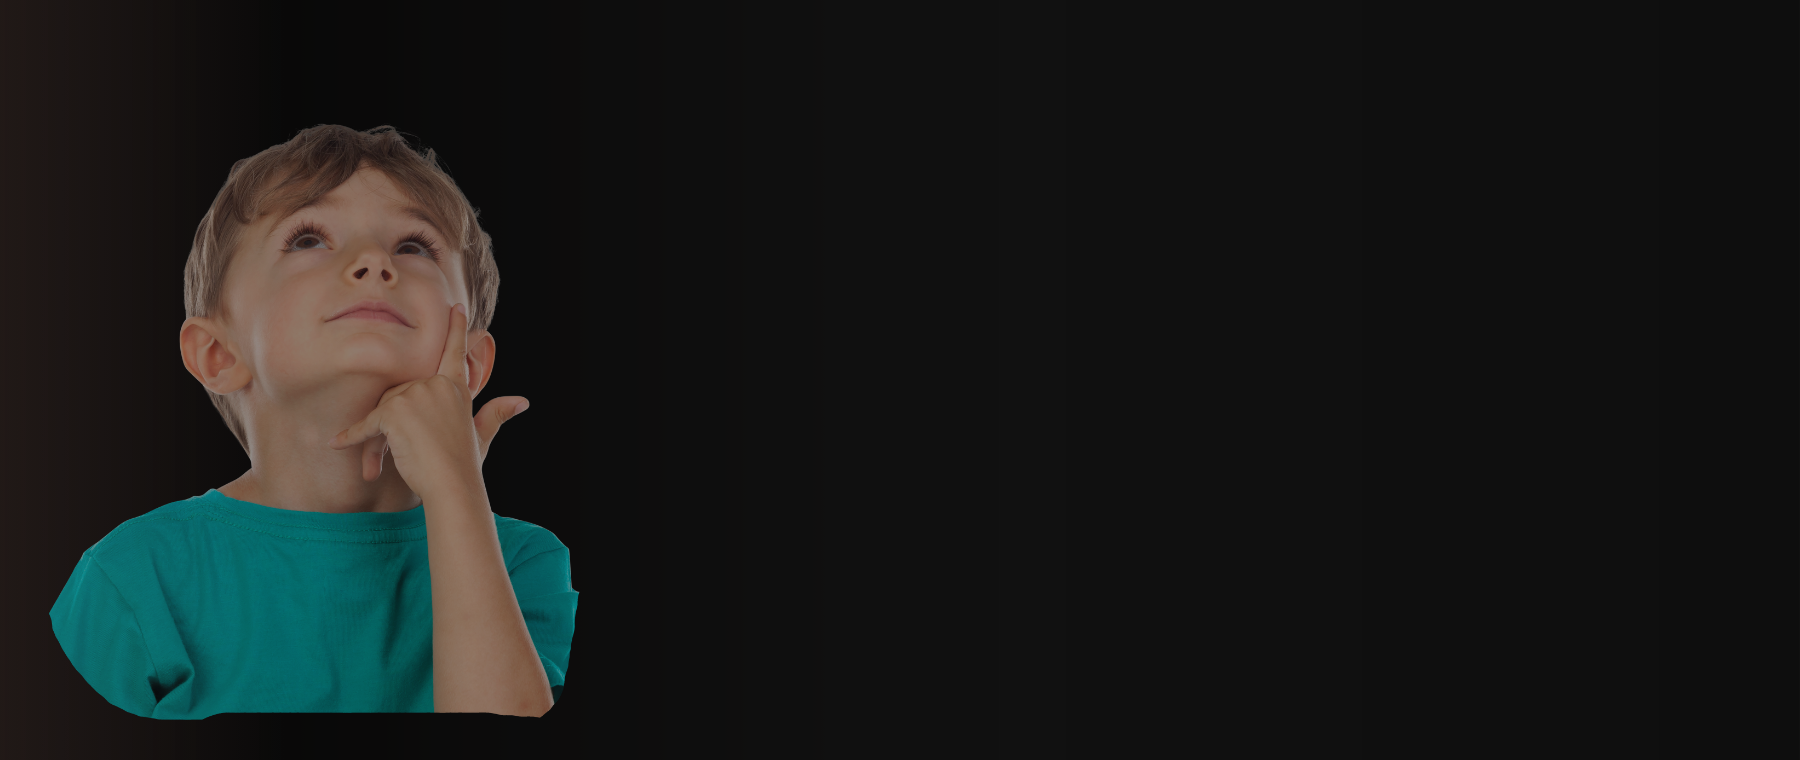
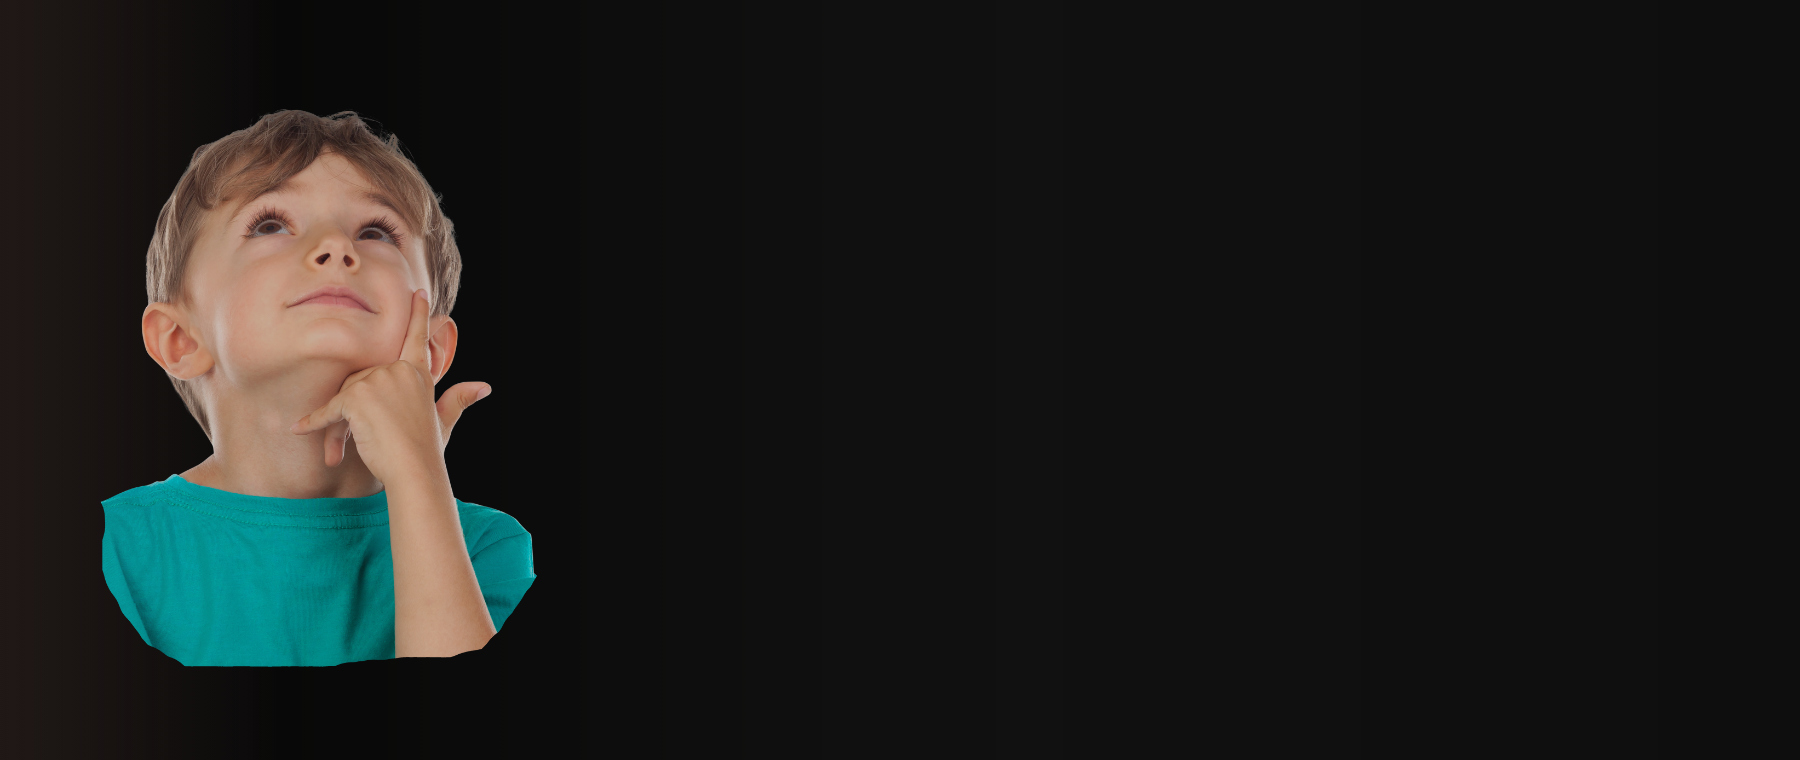
Melhorias

Changed region(s): [[0.0311, 0.1211, 0.3422, 0.9684]]

diff --git a/Web/main.js b/Web/main.js
@@ -2036,6 +2036,7 @@ MainContainers:{
     height:{'Mobile':'210%','Pc':'260%'},
     width:'100%',
     zIndex:'10',
+    display:{'Mobile':'none','Pc':'flex'},
      backgroundImage:["url('./Images/GradientMinimalistLight.png')","url('./Images/GradientMinimalistDark.png')"],
         backgroundRepeat:'no-repeat',
         backgroundPosition:'center',
@@ -2069,6 +2070,7 @@ MainContainers:{
      Id:'WhoIAmDecoration',
      Type:'div',
      Style:{
+      display:'block',
       position:'absolute',
       left:{'Mobile':'23%','Pc':'37%'},
       top:{'Mobile':'20%','Pc':'1%'},
@@ -2086,7 +2088,7 @@ MainContainers:{
       Id:'SelfImage',
       Type:'div',
       Style:{
-         position:'absolute',
+        position:'relative',
         width:{'Mobile':'40%',Pc:'50%'},
         height:{'Mobile':'40%',Pc:'20%'},
         top:{'Mobile':'16%',Pc:'10%'},
@@ -2094,11 +2096,142 @@ MainContainers:{
          backgroundImage:"url('./Images/SelfImage.png')",
         backgroundRepeat:'no-repeat',
         backgroundPosition:'center',
+        display:'block',
+        marginBottom:'5%',
         backgroundSize:'cover',
         boxShadow:'rgba(0,0,0,0.6) 5px 5px 5px',
         border:'solid 1px black',
+        
       },
+      Childs:{
+        MySpecsText:{
+          Id:'MySpecsText',
+          Type:'div',
+          Style:{
+            whiteSpace:'pre-line',
+            fontSize:{'Mobile':'11px','Pc':'0.9rem'},
+            lineHeight:{'Mobile':'2','Pc':'1.1'},
+            fontFamily: "'Delius', cursive",
+          fontWeight: '400',
+          position:'absolute',
+          fontStyle: 'normal',
+          color:['black','white'],
+          left:{'Mobile':'45%','Pc':'47%'},
+          top:{'Mobile':'20%','Pc':'7%'},
+
+          },
+          Text:
+         `- Psicanalista;
+
+          - Psicanalista especialista em 
+            ansiedade e TDAH;
+
+          - Neuropscicopedagoga Clínca;
+
+          - Pós-Graduada em Autismo e ABA;
+
+          - Especialista em educação inclusiva, 
+            Alfabetização e letramento;,
+
+          - Orientadora Parental e Consteladora Familiar;
+
+          - Tarapeuta Comportamental;`
+        }
+      }
+    },
+    SpikesDecoration:{
+      Id:'SpikesDecoration',
+      Type:'div',
+      Style:{
+        display:'block',
+        backgroundImage:["url('./Images/Spikes1.png')","url('./Images/Spikes1Light.png')"],
+        backgroundRepeat:'no-repeat',
+        backgroundPosition:'center',
+        backgroundSize:'cover',
+        position:'absolute',
+        width:{'Mobile':'100%','Pc':'100%'},
+        height:{'Mobile':'17%','Pc':'17%'},
+        top:{'Mobile':'35%','Pc':'35%'},
+        
+      
+      }
+    },
+    MyBioLetter:{
+      Id:'MyBioLetter',
+      Type:'div',
+      Style:{
+      position:'absolute',
+      fontSize:{'Mobile':'1rem','Pc':'5rem'},
+      color:['black','white'],
+     whiteSpace: 'pre-wrap',
+      lineHeight:{'Mobile':'2','Pc':'0.8'},
+      fontFamily: "'Imperial Script', cursive",
+      fontWeight: '400',
+      fontStyle: 'normal',
+      left:{'Mobile':'55%','Pc':'55%'},
+      top:{'Mobile':'34%','Pc':'35%'},
+      },
+      Text:`Minha
+      Biografia!`,
+    },
+    MyBioDecoration1:{
+      Id:'MyBioDecoration1',
+      Type:'div',
+      Style:{
+         backgroundImage:["url('./Images/BioDeco1.png')","url('./Images/BioDeco1Light.png')"],
+        backgroundRepeat:'no-repeat',
+        backgroundPosition:'center',
+        backgroundSize:'cover',
+        position:'absolute',
+        width:{'Mobile':'100%','Pc':'16%'},
+        height:{'Mobile':'17%','Pc':'11%'},
+        top:{'Mobile':'35%','Pc':'39%'},
+        transform:'rotate(10deg)',
+        left:{'Mobile':'35%','Pc':'54%'},
+      }
+    },
+    MyBioText:{
+      Id:'MyBioText',
+      Type:'div',
+      Text:`Quem sou eu? Me chamo Deisi Dillenburg, às vésperas de completar 49 anos, formada em Educação Especial- Licenciatura, pós Graduada em Neuropsicopedagogia, pós Graduada em Alfabetização e Letramento, pós Graduada em Autismo, pós Graduada em Educação Especial na perspectiva de uma Educação Inclusiva, pós Graduanda em Análise do Comportamento, Terapeuta Cognitiva Comportamental, Orientadora Parental, AT em ABA, além de vários cursos relacionados ao autismo e ao TDAH. 
+      Mas nenhum desses títulos me deu tanta visão e tanta experiência como ser mãe do Thaigor, um autista 14 anos nível 2 de suporte, diagnosticado aos 2 anos e 8 meses como nível 3 de suporte.
+      Não tenho 30 anos na educação especial, mas tenho 14 anos de práticas e tentativas, erros e acertos, não tenho mestrado, nem tão pouco doutorado, mas tenho a certeza de tudo que fiz com meu filho surtiu resultados incríveis. 
+      Não tenho uma clínica chique, mas tenho um espaço acolhedor cheio de amor, compreensão, conversa que além da teoria apresenta a prática vivida.
+      Não quero ser melhor ou pior, não quero o espaço de ninguém, só quero ajudar as tantas famílias que me procuram, dar a elas o suporte que não tive, o acolhimento que não recebi..
+      Acompanho na consulta ao neuro sim se a família está insegura, acompanho a barbearia para auxiliar quando o corte de cabelo parece impossível, vou a escola, entro na sala de aula, converso com a direção, procuro fazer tudo que gostaria de ter recebido para meu filho, pq eu vivi na pele cada etapa desde o início, eu já passei noites chorando, já me senti culpada. 
+      Faço as avaliações mas entrego mais que um relatório de avaliação diagnóstica, entrego acolhimento, me coloco a disposição se precisar conversar.
+      Sou profissional, mas acima de tudo sou mãe atípica.`,
+       Style:{
+      position:'absolute',
+      color:['black','white'],
+      fontSize:{'Mobile':'1rem','Pc':'1.2'},
+       whiteSpace: 'pre-wrap',
+      lineHeight:{'Mobile':'2','Pc':'1.5'},
+      fontFamily: "'Delius', cursive",
+      fontWeight: '400',
+      fontStyle: 'normal',
+      left:{'Mobile':'55%','Pc':'37%'},
+      top:{'Mobile':'34%','Pc':'53%'},
+
     }
+    },
+    BackgroundBio:{
+      Id:'BackgroundBio',
+      Type:'div',
+      Style:{
+          backgroundImage:["url('./Images/BackgroundBio.png')","url('./Images/BackgroundBio.png')"],
+        backgroundRepeat:'no-repeat',
+        backgroundPosition:'center',
+        backgroundSize:'contain',
+        position:'absolute',
+        width:{'Mobile':'100%','Pc':'60%'},
+        height:{'Mobile':'17%','Pc':'25%'},
+        top:{'Mobile':'35%','Pc':'52%'},
+        transform:'rotate(10deg)',
+        left:{'Mobile':'35%','Pc':'0%'},
+      }
+    }
+   
     },
   }
  

diff --git a/Web/Umbra/UmbraUI.js b/Web/Umbra/UmbraUI.js
@@ -185,12 +185,13 @@ export function UmbraMainRender(MainParent,BluePrint){
             if(typeof BluePrint[Child].Text == 'string'){
         ChildDOM.innerText = BluePrint[Child].Text;
             }
-            else if(typeof BluePrint[Child].Text == 'object'){
+            else if(typeof BluePrint[Child].Text == 'object' && !Array.isArray(BluePrint[Child].Text)){
             ChildDOM.innerText = BluePrint[Child].Text[UmbraCoreBrute.ClientLanguage()];
             }
             else if(typeof BluePrint[Child].Text == 'function'){
            ChildDOM.innerText = BluePrint[Child].Text();
             }
+           
             
         }
         if(BluePrint[Child].Style){

diff --git a/Web/style.css b/Web/style.css
@@ -1,7 +1,7 @@
 html,body{
     overflow-x: hidden;
     overflow-y: auto;
-   
+    display: block;
 }
 
 
